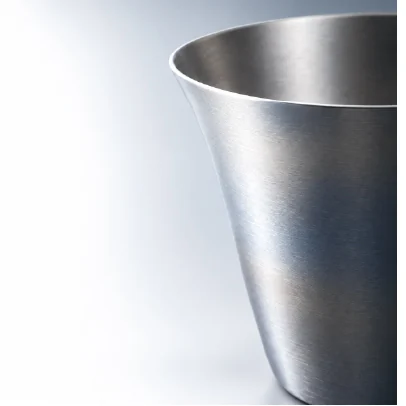
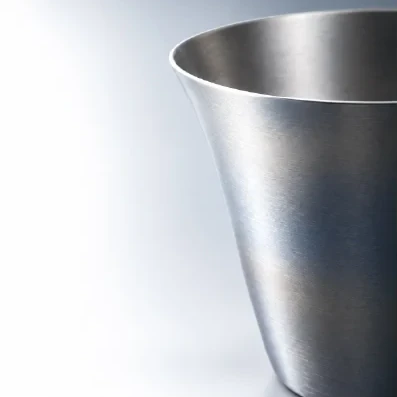
宴シリーズの写真を差し替え・こだわり02の白線を除去

Changed region(s): [[0.4232, 0.0, 1.0, 1.0], [0.5441, 0.4232, 0.6045, 0.5441], [0.5139, 0.3929, 0.5441, 0.4232]]

diff --git a/index.html b/index.html
@@ -22,4 +22,4 @@
     </button>
     <p class="fine center">※先着順・お一人様1個、無くなり次第終了</p>
   </div>
-</section><section class="craft"><header class="section-title"><p class="eyebrow">CRAFTSMANSHIP</p><h2>まろやかな飲み口、<br>軽やかな使い心地。</h2></header><img src="assets/craft.webp?v=2" alt="職人がタンブラーの飲み口を研磨する様子" class="" loading="lazy" width="1440" height="812"><p class="copy">軽くて丈夫なチタンは、加工が難しい素材。<br>燕三条の職人が回転速度や力加減を見極め、<br>繊細な調整で美しいかたちに仕上げます。</p></section><section class="design pad"><header class="section-title"><p class="eyebrow">DESIGN</p><h2>注ぐと、絵柄が動き出す。</h2></header><p class="copy">一杯を味わいながら、<br>揺らぐ水面と繊細な絵柄が織り成す景色を楽しむ。<br>毎日の一杯に、純チタンの器「宴」を。</p><img src="assets/scene.webp?v=2" alt="氷と水を注いだ、落葉と錦鯉の宴タンブラー" class="" loading="lazy" width="1278" height="721"></section><section class="lineup pad" id="utage"><header class="section-title"><p class="eyebrow">FIND YOUR FAVORITE</p><h2>純チタン製 シングルタンブラー<br>「宴」ラインナップ</h2></header><p class="copy compact">眺める時間も、味わう時間も軽やかに。好きな景色で。</p><p class="spec">ensai TITANIUM　純チタン製／各種350ml</p><div class="product-grid"><article class="product"><img src="assets/koi.webp" alt="落葉と錦鯉" class="" loading="lazy" width="300" height="301"><p class="tag">舞う落葉に錦鯉が泳ぐ</p><h3>落葉と錦鯉</h3><p class="price">¥12,500<small>（税込）</small></p></article><article class="product"><img src="assets/stars.webp" alt="冬の星座" class="" loading="lazy" width="300" height="301"><p class="tag">冬の夜空に星座が輝く</p><h3>冬の星座</h3><p class="price">¥14,000<small>（税込）</small></p></article><article class="product"><img src="assets/train.webp" alt="銀河鉄道" class="" loading="lazy" width="300" height="300"><p class="tag">星の海を列車が駆ける</p><h3>銀河鉄道</h3><p class="price">¥13,000<small>（税込）</small></p></article><article class="product"><img src="assets/fish.webp" alt="日本海大漁" class="" loading="lazy" width="300" height="300"><p class="tag">日本海に魚たちが躍る</p><h3>日本海大漁</h3><p class="price">¥12,500<small>（税込）</small></p></article></div></section><section class="viewer-section" aria-labelledby="viewer-title"><p class="eyebrow">3D VIEW</p><h2 id="viewer-title">「宴」を、いろいろな角度から。</h2><p class="viewer-help">絵柄や水の状態を切り替えて、ドラッグで回せます。</p><iframe src="viewer.html" title="宴タンブラーの3D見本。4種類の絵柄、空・水・水と氷を切り替えられます" loading="lazy"></iframe></section><section class="purchase"><h2>毎日の道具を、ずっと傍に。<br>あなたの一杯に、宴を。</h2><button type="button" class="cta shop" data-destination="shop"><span class="shop-label"><svg class="cart-icon" aria-hidden="true" viewBox="0 0 24 24" width="1em" height="1em" fill="none" stroke="currentColor" stroke-width="2" stroke-linecap="round" stroke-linejoin="round"><path d="M2.5 3.5h2.6l2.4 11.2a1.6 1.6 0 0 0 1.6 1.3h8.7a1.6 1.6 0 0 0 1.6-1.2l1.6-6.8H6.1"/><circle cx="9.5" cy="20" r="1.4"/><circle cx="17.5" cy="20" r="1.4"/></svg>オンラインショップで購入する</span><span class="arrow" aria-hidden="true">→</span></button></section><section class="features"><header class="section-title"><p class="eyebrow">MADE FOR EVERYDAY</p><h2>毎日に寄り添う、3つのこだわり。</h2></header><article class="feature"><img src="assets/rim.webp?v=2" alt="口当たり良い飲み口" class="" loading="lazy" width="406" height="406"><div><span class="number">01</span><h3>口当たり良い飲み口</h3><p>手作業による丁寧な研磨。<br>複数の作業工程を経て、<br>金属を感じさせない飲み口に。</p></div></article><article class="feature"><img src="assets/light.webp?v=2" alt="軽くて丈夫な純チタン" class="" loading="lazy" width="406" height="406"><div><span class="number">02</span><h3>軽くて丈夫な純チタン</h3><p>350mlで、約52gの軽さ。<br>丈夫で長持ちし、錆びにくく、<br>匂い移りが少ない素材です。</p></div></article><article class="feature"><img src="assets/lathe.webp?v=2" alt="燕三条の加工技術" class="" loading="lazy" width="406" height="406"><div><span class="number">03</span><h3>燕三条の加工技術</h3><p>成形、研磨、発色。<br>それぞれの工程で精度を追求し、<br>美しさと使い心地を整えます。</p></div></article><p class="fine feature-note">※約52gは350mlシングルタンブラーの仕様です。<br>※本体は、純チタン製</p></section><section class="mountain pad"><h2>BLUE MOUNTAIN</h2><p class="subtitle">ブルーマウンテンシリーズ</p><p class="copy compact"><strong>憩いを彩る、山の青。<br>お気に入りの器で、いつもの晩酌をアウトドア気分に。</strong></p><p class="spec center">ensai TITANIUM　純チタン製／各種350ml</p><div class="mountain-grid"><article><img src="assets/mountain-tumbler.webp?v=2" alt="二重タンブラー" class="" loading="lazy" width="335" height="560"><h3>【二重タンブラー】</h3><p>¥16,000（税込）</p></article><article><img src="assets/mountain-mug.webp?v=2" alt="シングルマグ" class="" loading="lazy" width="586" height="560"><h3>【シングルマグ】</h3><p>¥8,000（税込）</p></article><article><img src="assets/folding.webp?v=2" alt="折りたたみ式カトラリー" class="" loading="lazy" width="625" height="560"><h3>【折りたたみ式カトラリー】</h3><p>¥3,800（税込）</p></article><article><img src="assets/cutlery.webp?v=2" alt="カトラリー" class="" loading="lazy" width="286" height="560"><h3>【カトラリー】</h3><p>¥1,980（税込）</p></article><article><img src="assets/plates.webp?v=4" alt="プレート全4色" class="" loading="lazy" width="597" height="560"><h3>【プレート全4色】</h3><p>各¥1,980（税込）</p></article><article><img src="assets/cups.webp?v=4" alt="シェラカップ全4色" class="" loading="lazy" width="640" height="505"><h3>【シェラカップ全4色】</h3><p>各¥2,400（税込）</p></article></div></section><section class="more pad"><header class="section-title"><p class="eyebrow">MORE TITANIUM</p><h2>人に寄り添う、<br>肌に優しい道具。</h2></header><p class="copy compact">店頭で、純チタンの軽さをご体感ください。</p><div class="category-grid"><figure><img src="assets/category-cups.webp?v=2" alt="タンブラー・マグ・酒器" class="" loading="lazy" width="600" height="600"><figcaption>タンブラー・マグ・酒器</figcaption></figure><figure><img src="assets/category-camp.webp?v=2" alt="キャンプギア" class="" loading="lazy" width="600" height="600"><figcaption>キャンプギア</figcaption></figure><figure><img src="assets/category-jewelry.webp?v=2" alt="純チタン製アクセサリー" class="" loading="lazy" width="600" height="600"><figcaption>純チタン製アクセサリー</figcaption></figure><figure><img src="assets/category-pens.webp?v=2" alt="筆記具" class="" loading="lazy" width="600" height="600"><figcaption>筆記具</figcaption></figure><figure><img src="assets/category-kitchen.webp?v=2" alt="キッチン用品" class="" loading="lazy" width="600" height="600"><figcaption>キッチン用品</figcaption></figure><figure><img src="assets/category-kids.webp?v=2" alt="キッズ向け食器" class="" loading="lazy" width="600" height="600"><figcaption>キッズ向け食器</figcaption></figure></div></section><section class="gacha pad"><header class="section-title"><p class="eyebrow">GACHA</p><h2>純チタンに触れよう。</h2></header><p class="copy compact">店頭では、全8色の純チタン製目印チャームの<br>ガチャを設置しています（1回400円）</p><div class="charm"><img src="assets/gacha-main.webp" alt="黄緑色の純チタン製目印チャーム" class="" loading="lazy" width="208" height="250"><div class="weight"><span>ensai<br>TITANIUM<br>超軽量</span><p>約<strong>1</strong>g</p></div></div><h3 class="gacha-heading"><span>全8色</span> 手に取ると、軽さに驚き！</h3><img src="assets/gacha-all.webp" alt="全8色のチャームと店頭のガチャ" class="" loading="lazy" width="606" height="299"><button type="button" class="line-art" data-destination="line" aria-label="LINE友だち追加で純チタン製目印チャーム 限定虹色プレゼント。店頭お渡し期間10月30日〜11月8日"><img class="line-banner" src="assets/line-gift.webp" alt="LINE友だち追加で、純チタン製目印チャーム 限定虹色プレゼント。店頭お渡し期間10/30〜11/8" width="561" height="150" loading="lazy"><span class="line-copy"><strong>LINE友だち追加で</strong><small><span class="line-benefit">純チタン製目印チャーム</span> <span class="line-benefit">限定虹色プレゼント</span><br><span class="line-date">（店頭お渡し期間：<span class="nowrap">10/30〜11/8）</span></span></small></span><img class="hero-gift" src="assets/swallow-charm-large.png" alt="" width="140" height="140" loading="lazy"><span class="arrow" aria-hidden="true">→</span></button><p class="fine center">※先着順・お一人様1個、無くなり次第終了</p></section><section class="visit pad"><header class="section-title"><p class="eyebrow">VISIT US</p><h2>店舗のご案内</h2></header><img src="assets/store.webp" alt="燕彩 CoCoLo新潟店の店舗イメージ" class="" loading="lazy" width="640" height="362"><div class="store-intro"><div><h3>燕彩 CoCoLo新潟店<br>2026.10.30 OPEN</h3><p>CoCoLo新潟2F</p><p>手に取るとわかる、純チタンの軽さ。<br>器や暮らしの道具を、店頭でみつけてください。</p></div><img src="assets/store-cups.webp" alt="店頭に並ぶ宴タンブラー" class="" loading="lazy" width="343" height="343"></div></section><section class="experience pad"><header class="section-title"><p class="eyebrow">TITANIUM COLOR EXPERIENCE</p><h2>旅の思い出を、自分だけの色に。</h2></header><p class="copy compact">純チタンメダルの色づけ体験コーナーを常設。<br>青色のカウンターにてお申し込みください。<br>【体験料：800円（税込）／体験時間：約15分】</p><div class="experience-images"><figure><img src="assets/medals.webp" alt="金色、青色、紫色に色づけした3種類のチタンメダル" class="" loading="lazy" width="376" height="180"><figcaption>陽極酸化での色づけ完成イメージ</figcaption></figure><img src="assets/color-experience.webp" alt="水槽でチタンメダルに色をつける様子" class="" loading="lazy" width="251" height="208"></div><p class="copy compact">新潟の旅の記念に。<br>好きな色で仕上げる、自分だけの一枚を。</p></section><footer><img src="assets/ensai-white.webp" alt="Ensai" class="footer-logo" loading="lazy" width="1348" height="578"><p class="footer-brand">燕 彩</p><p class="fine">【製造・販売】</p><h2>株式会社 橘製作所</h2><p>〒959-1287 新潟県燕市大関111-1</p><p>【お問合せ】　ensai@tachibana-tec.co.jp</p><p class="company-domain">tachibana-tec.co.jp</p><p class="copyright">© 2026 株式会社橘製作所</p></footer><button type="button" class="bottom-shop" data-destination="shop"><span class="shop-label"><svg class="cart-icon" aria-hidden="true" viewBox="0 0 24 24" width="1em" height="1em" fill="none" stroke="currentColor" stroke-width="2" stroke-linecap="round" stroke-linejoin="round"><path d="M2.5 3.5h2.6l2.4 11.2a1.6 1.6 0 0 0 1.6 1.3h8.7a1.6 1.6 0 0 0 1.6-1.2l1.6-6.8H6.1"/><circle cx="9.5" cy="20" r="1.4"/><circle cx="17.5" cy="20" r="1.4"/></svg>オンラインショップ</span> <span aria-hidden="true">→</span></button></main><dialog id="link-notice"><h2>リンク先は準備中です</h2><p id="notice-copy"></p><button type="button" id="close-notice">閉じる</button></dialog><script src="config.js"></script><script src="app.js"></script><script src="motion.js" defer></script></body></html>
+</section><section class="craft"><header class="section-title"><p class="eyebrow">CRAFTSMANSHIP</p><h2>まろやかな飲み口、<br>軽やかな使い心地。</h2></header><img src="assets/craft.webp?v=2" alt="職人がタンブラーの飲み口を研磨する様子" class="" loading="lazy" width="1440" height="812"><p class="copy">軽くて丈夫なチタンは、加工が難しい素材。<br>燕三条の職人が回転速度や力加減を見極め、<br>繊細な調整で美しいかたちに仕上げます。</p></section><section class="design pad"><header class="section-title"><p class="eyebrow">DESIGN</p><h2>注ぐと、絵柄が動き出す。</h2></header><p class="copy">一杯を味わいながら、<br>揺らぐ水面と繊細な絵柄が織り成す景色を楽しむ。<br>毎日の一杯に、純チタンの器「宴」を。</p><img src="assets/scene.webp?v=2" alt="氷と水を注いだ、落葉と錦鯉の宴タンブラー" class="" loading="lazy" width="1278" height="721"></section><section class="lineup pad" id="utage"><header class="section-title"><p class="eyebrow">FIND YOUR FAVORITE</p><h2>純チタン製 シングルタンブラー<br>「宴」ラインナップ</h2></header><p class="copy compact">眺める時間も、味わう時間も軽やかに。好きな景色で。</p><p class="spec">ensai TITANIUM　純チタン製／各種350ml</p><div class="product-grid"><article class="product"><img src="assets/koi.webp?v=2" alt="落葉と錦鯉" class="" loading="lazy" width="600" height="600"><p class="tag">舞う落葉に錦鯉が泳ぐ</p><h3>落葉と錦鯉</h3><p class="price">¥12,500<small>（税込）</small></p></article><article class="product"><img src="assets/stars.webp?v=2" alt="冬の星座" class="" loading="lazy" width="600" height="600"><p class="tag">冬の夜空に星座が輝く</p><h3>冬の星座</h3><p class="price">¥14,000<small>（税込）</small></p></article><article class="product"><img src="assets/train.webp?v=2" alt="銀河鉄道" class="" loading="lazy" width="600" height="600"><p class="tag">星の海を列車が駆ける</p><h3>銀河鉄道</h3><p class="price">¥13,000<small>（税込）</small></p></article><article class="product"><img src="assets/fish.webp?v=2" alt="日本海大漁" class="" loading="lazy" width="600" height="600"><p class="tag">日本海に魚たちが躍る</p><h3>日本海大漁</h3><p class="price">¥12,500<small>（税込）</small></p></article></div></section><section class="viewer-section" aria-labelledby="viewer-title"><p class="eyebrow">3D VIEW</p><h2 id="viewer-title">「宴」を、いろいろな角度から。</h2><p class="viewer-help">絵柄や水の状態を切り替えて、ドラッグで回せます。</p><iframe src="viewer.html" title="宴タンブラーの3D見本。4種類の絵柄、空・水・水と氷を切り替えられます" loading="lazy"></iframe></section><section class="purchase"><h2>毎日の道具を、ずっと傍に。<br>あなたの一杯に、宴を。</h2><button type="button" class="cta shop" data-destination="shop"><span class="shop-label"><svg class="cart-icon" aria-hidden="true" viewBox="0 0 24 24" width="1em" height="1em" fill="none" stroke="currentColor" stroke-width="2" stroke-linecap="round" stroke-linejoin="round"><path d="M2.5 3.5h2.6l2.4 11.2a1.6 1.6 0 0 0 1.6 1.3h8.7a1.6 1.6 0 0 0 1.6-1.2l1.6-6.8H6.1"/><circle cx="9.5" cy="20" r="1.4"/><circle cx="17.5" cy="20" r="1.4"/></svg>オンラインショップで購入する</span><span class="arrow" aria-hidden="true">→</span></button></section><section class="features"><header class="section-title"><p class="eyebrow">MADE FOR EVERYDAY</p><h2>毎日に寄り添う、3つのこだわり。</h2></header><article class="feature"><img src="assets/rim.webp?v=2" alt="口当たり良い飲み口" class="" loading="lazy" width="406" height="406"><div><span class="number">01</span><h3>口当たり良い飲み口</h3><p>手作業による丁寧な研磨。<br>複数の作業工程を経て、<br>金属を感じさせない飲み口に。</p></div></article><article class="feature"><img src="assets/light.webp?v=3" alt="軽くて丈夫な純チタン" class="" loading="lazy" width="397" height="397"><div><span class="number">02</span><h3>軽くて丈夫な純チタン</h3><p>350mlで、約52gの軽さ。<br>丈夫で長持ちし、錆びにくく、<br>匂い移りが少ない素材です。</p></div></article><article class="feature"><img src="assets/lathe.webp?v=2" alt="燕三条の加工技術" class="" loading="lazy" width="406" height="406"><div><span class="number">03</span><h3>燕三条の加工技術</h3><p>成形、研磨、発色。<br>それぞれの工程で精度を追求し、<br>美しさと使い心地を整えます。</p></div></article><p class="fine feature-note">※約52gは350mlシングルタンブラーの仕様です。<br>※本体は、純チタン製</p></section><section class="mountain pad"><h2>BLUE MOUNTAIN</h2><p class="subtitle">ブルーマウンテンシリーズ</p><p class="copy compact"><strong>憩いを彩る、山の青。<br>お気に入りの器で、いつもの晩酌をアウトドア気分に。</strong></p><p class="spec center">ensai TITANIUM　純チタン製／各種350ml</p><div class="mountain-grid"><article><img src="assets/mountain-tumbler.webp?v=2" alt="二重タンブラー" class="" loading="lazy" width="335" height="560"><h3>【二重タンブラー】</h3><p>¥16,000（税込）</p></article><article><img src="assets/mountain-mug.webp?v=2" alt="シングルマグ" class="" loading="lazy" width="586" height="560"><h3>【シングルマグ】</h3><p>¥8,000（税込）</p></article><article><img src="assets/folding.webp?v=2" alt="折りたたみ式カトラリー" class="" loading="lazy" width="625" height="560"><h3>【折りたたみ式カトラリー】</h3><p>¥3,800（税込）</p></article><article><img src="assets/cutlery.webp?v=2" alt="カトラリー" class="" loading="lazy" width="286" height="560"><h3>【カトラリー】</h3><p>¥1,980（税込）</p></article><article><img src="assets/plates.webp?v=4" alt="プレート全4色" class="" loading="lazy" width="597" height="560"><h3>【プレート全4色】</h3><p>各¥1,980（税込）</p></article><article><img src="assets/cups.webp?v=4" alt="シェラカップ全4色" class="" loading="lazy" width="640" height="505"><h3>【シェラカップ全4色】</h3><p>各¥2,400（税込）</p></article></div></section><section class="more pad"><header class="section-title"><p class="eyebrow">MORE TITANIUM</p><h2>人に寄り添う、<br>肌に優しい道具。</h2></header><p class="copy compact">店頭で、純チタンの軽さをご体感ください。</p><div class="category-grid"><figure><img src="assets/category-cups.webp?v=2" alt="タンブラー・マグ・酒器" class="" loading="lazy" width="600" height="600"><figcaption>タンブラー・マグ・酒器</figcaption></figure><figure><img src="assets/category-camp.webp?v=2" alt="キャンプギア" class="" loading="lazy" width="600" height="600"><figcaption>キャンプギア</figcaption></figure><figure><img src="assets/category-jewelry.webp?v=2" alt="純チタン製アクセサリー" class="" loading="lazy" width="600" height="600"><figcaption>純チタン製アクセサリー</figcaption></figure><figure><img src="assets/category-pens.webp?v=2" alt="筆記具" class="" loading="lazy" width="600" height="600"><figcaption>筆記具</figcaption></figure><figure><img src="assets/category-kitchen.webp?v=2" alt="キッチン用品" class="" loading="lazy" width="600" height="600"><figcaption>キッチン用品</figcaption></figure><figure><img src="assets/category-kids.webp?v=2" alt="キッズ向け食器" class="" loading="lazy" width="600" height="600"><figcaption>キッズ向け食器</figcaption></figure></div></section><section class="gacha pad"><header class="section-title"><p class="eyebrow">GACHA</p><h2>純チタンに触れよう。</h2></header><p class="copy compact">店頭では、全8色の純チタン製目印チャームの<br>ガチャを設置しています（1回400円）</p><div class="charm"><img src="assets/gacha-main.webp" alt="黄緑色の純チタン製目印チャーム" class="" loading="lazy" width="208" height="250"><div class="weight"><span>ensai<br>TITANIUM<br>超軽量</span><p>約<strong>1</strong>g</p></div></div><h3 class="gacha-heading"><span>全8色</span> 手に取ると、軽さに驚き！</h3><img src="assets/gacha-all.webp" alt="全8色のチャームと店頭のガチャ" class="" loading="lazy" width="606" height="299"><button type="button" class="line-art" data-destination="line" aria-label="LINE友だち追加で純チタン製目印チャーム 限定虹色プレゼント。店頭お渡し期間10月30日〜11月8日"><img class="line-banner" src="assets/line-gift.webp" alt="LINE友だち追加で、純チタン製目印チャーム 限定虹色プレゼント。店頭お渡し期間10/30〜11/8" width="561" height="150" loading="lazy"><span class="line-copy"><strong>LINE友だち追加で</strong><small><span class="line-benefit">純チタン製目印チャーム</span> <span class="line-benefit">限定虹色プレゼント</span><br><span class="line-date">（店頭お渡し期間：<span class="nowrap">10/30〜11/8）</span></span></small></span><img class="hero-gift" src="assets/swallow-charm-large.png" alt="" width="140" height="140" loading="lazy"><span class="arrow" aria-hidden="true">→</span></button><p class="fine center">※先着順・お一人様1個、無くなり次第終了</p></section><section class="visit pad"><header class="section-title"><p class="eyebrow">VISIT US</p><h2>店舗のご案内</h2></header><img src="assets/store.webp" alt="燕彩 CoCoLo新潟店の店舗イメージ" class="" loading="lazy" width="640" height="362"><div class="store-intro"><div><h3>燕彩 CoCoLo新潟店<br>2026.10.30 OPEN</h3><p>CoCoLo新潟2F</p><p>手に取るとわかる、純チタンの軽さ。<br>器や暮らしの道具を、店頭でみつけてください。</p></div><img src="assets/store-cups.webp" alt="店頭に並ぶ宴タンブラー" class="" loading="lazy" width="343" height="343"></div></section><section class="experience pad"><header class="section-title"><p class="eyebrow">TITANIUM COLOR EXPERIENCE</p><h2>旅の思い出を、自分だけの色に。</h2></header><p class="copy compact">純チタンメダルの色づけ体験コーナーを常設。<br>青色のカウンターにてお申し込みください。<br>【体験料：800円（税込）／体験時間：約15分】</p><div class="experience-images"><figure><img src="assets/medals.webp" alt="金色、青色、紫色に色づけした3種類のチタンメダル" class="" loading="lazy" width="376" height="180"><figcaption>陽極酸化での色づけ完成イメージ</figcaption></figure><img src="assets/color-experience.webp" alt="水槽でチタンメダルに色をつける様子" class="" loading="lazy" width="251" height="208"></div><p class="copy compact">新潟の旅の記念に。<br>好きな色で仕上げる、自分だけの一枚を。</p></section><footer><img src="assets/ensai-white.webp" alt="Ensai" class="footer-logo" loading="lazy" width="1348" height="578"><p class="footer-brand">燕 彩</p><p class="fine">【製造・販売】</p><h2>株式会社 橘製作所</h2><p>〒959-1287 新潟県燕市大関111-1</p><p>【お問合せ】　ensai@tachibana-tec.co.jp</p><p class="company-domain">tachibana-tec.co.jp</p><p class="copyright">© 2026 株式会社橘製作所</p></footer><button type="button" class="bottom-shop" data-destination="shop"><span class="shop-label"><svg class="cart-icon" aria-hidden="true" viewBox="0 0 24 24" width="1em" height="1em" fill="none" stroke="currentColor" stroke-width="2" stroke-linecap="round" stroke-linejoin="round"><path d="M2.5 3.5h2.6l2.4 11.2a1.6 1.6 0 0 0 1.6 1.3h8.7a1.6 1.6 0 0 0 1.6-1.2l1.6-6.8H6.1"/><circle cx="9.5" cy="20" r="1.4"/><circle cx="17.5" cy="20" r="1.4"/></svg>オンラインショップ</span> <span aria-hidden="true">→</span></button></main><dialog id="link-notice"><h2>リンク先は準備中です</h2><p id="notice-copy"></p><button type="button" id="close-notice">閉じる</button></dialog><script src="config.js"></script><script src="app.js"></script><script src="motion.js" defer></script></body></html>
